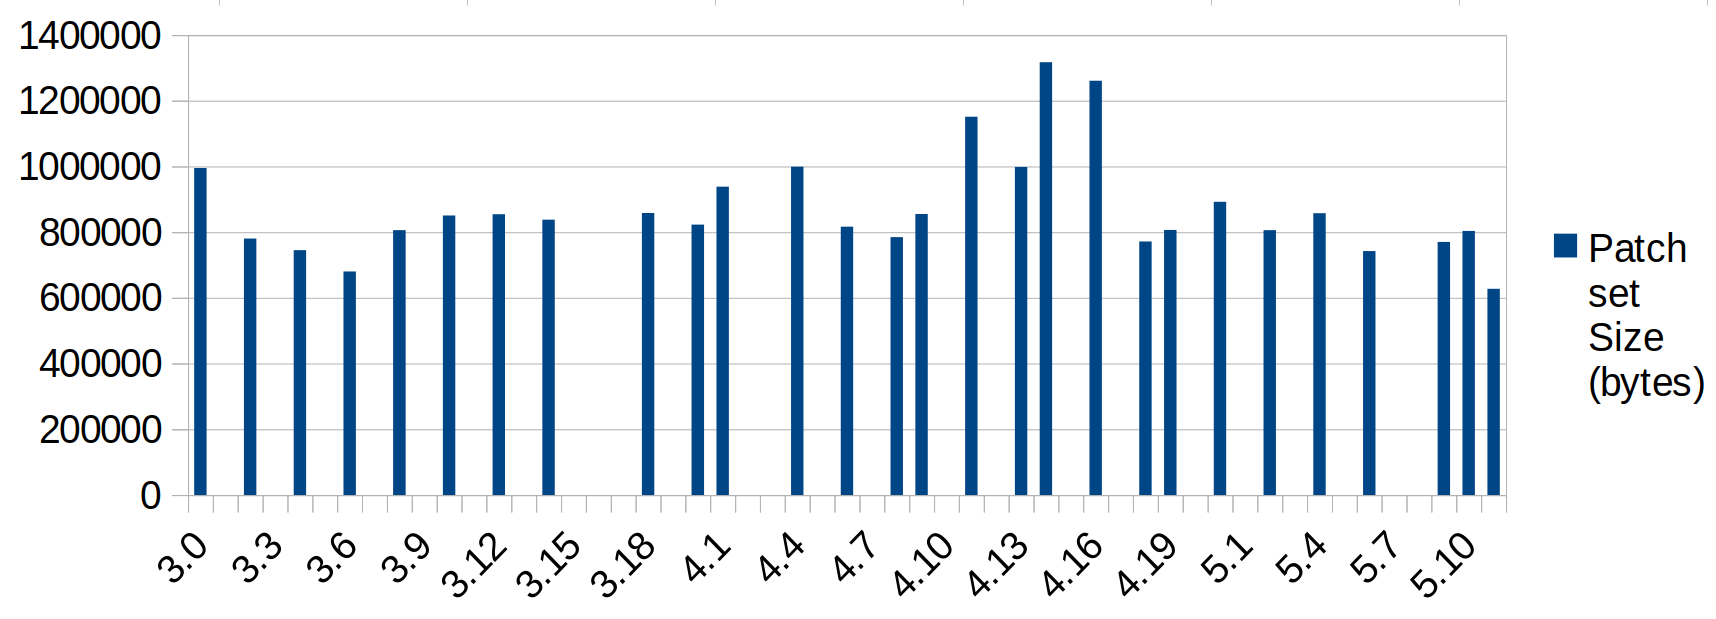
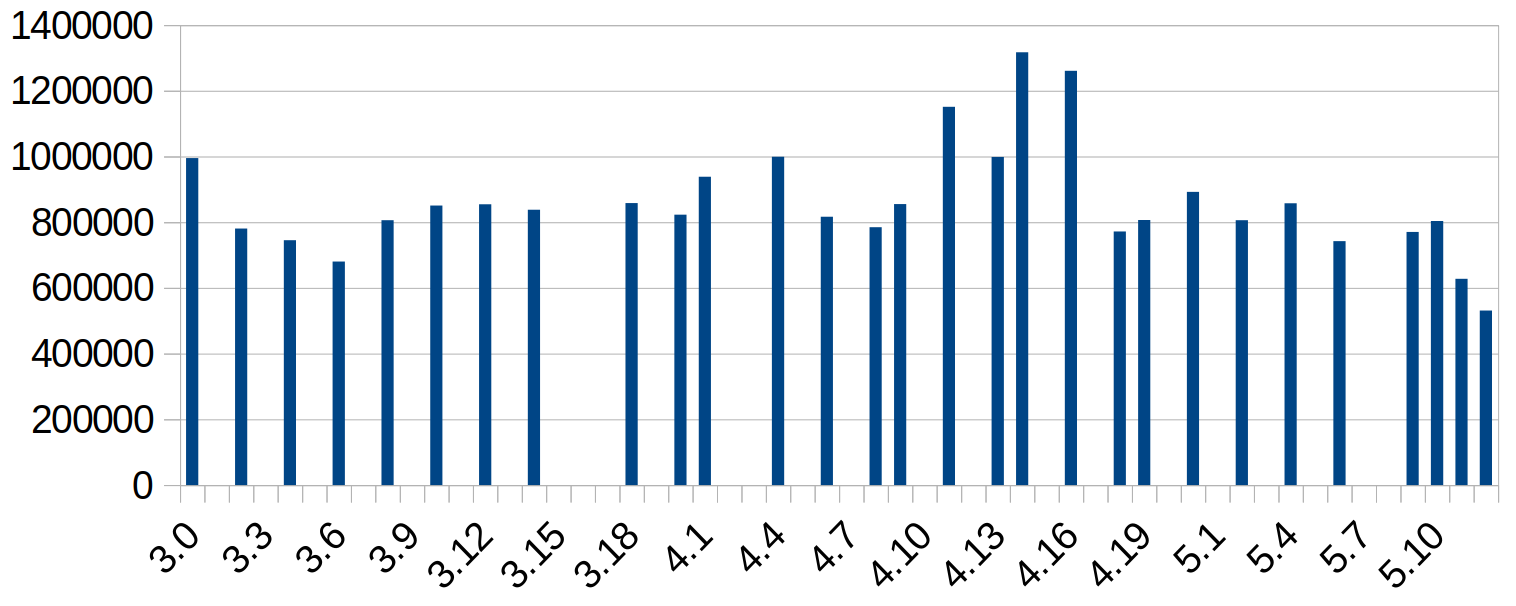
Embedded Linux slides: PREEMPT_RT updates

diff --git a/slides/sysdev-realtime/sysdev-realtime.tex b/slides/sysdev-realtime/sysdev-realtime.tex
@@ -513,7 +513,7 @@
     kernel
     \begin{itemize}
     \item Only the latest and long term stable releases of the kernel
-      are actively supported and maintained, currently: 5.11, 5.10, 5.4, 4.19,
+      are actively supported and maintained, currently: 5.12, 5.10, 5.4, 4.19,
       4.14, 4.9, 4.4. This is yet another advantage of using a mainline
       LTS kernel release! It will be difficult to port the patches to
       other kernel versions.
@@ -551,9 +551,9 @@
   \frametitle{PREEMPT\_RT mainlining status (1)}
   \begin{itemize}
   \item The project is making good progress since it got funding from
-        the Linux Foundation in 2015.
-  \item However, a reduction of the size of the PREEMPT\_RT patchset
-        is not really visible yet:\\
+        the Linux Foundation in 2015 (Linux version 4.1 at that time).
+  \item We can now observe a slow but steady a reduction of the size of
+        the PREEMPT\_RT patchset:\\
     \vfill
     \includegraphics[width=0.8\textwidth]{slides/sysdev-realtime/rt-patch-sizes.png}
   \end{itemize}
@@ -569,6 +569,9 @@
         \kconfig{CONFIG_PREEMPT_RT} configuration option is now in mainline, though
         it cannot be selected yet (missing dependencies). This
         simplifies further mainlining work.
+  \item In 5.12, new \kconfig{CONFIG_PREEMPT_DYNAMIC} switch to change the preemption
+        model at boot time: \code{preempt=none}, \code{preempt=voluntary} or
+        \code{preempt=full}
   \item See the latest news on \url{https://wiki.linuxfoundation.org/realtime/}
   \end{itemize}
 \end{frame}
